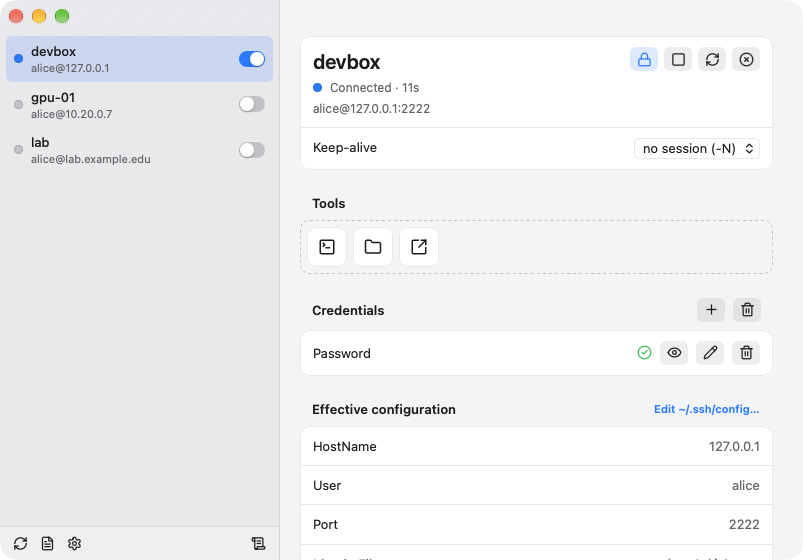
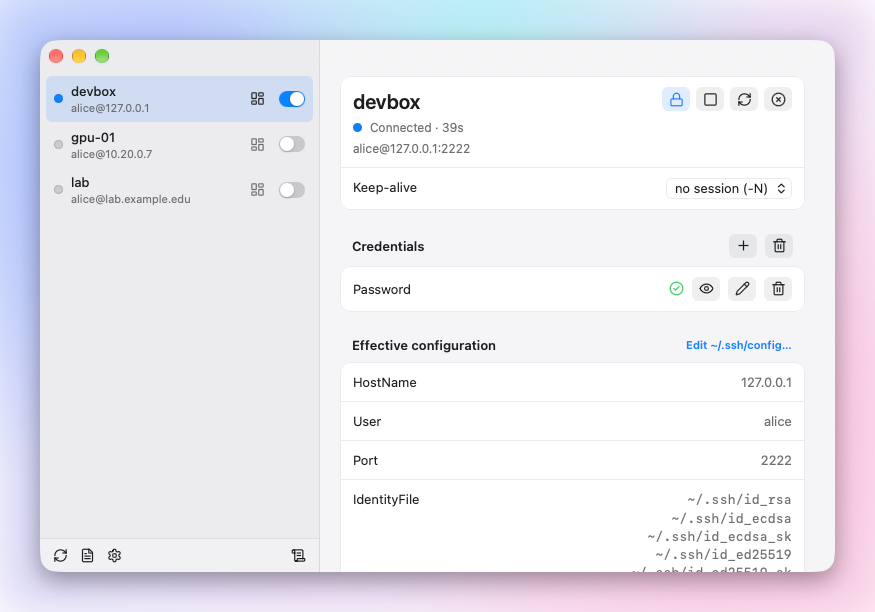
[docs] README: the Console beside the main window, both on a blurred backdrop
The Console window's title is the host's name alone, no "Console — "
prefix. scripts/readme-screenshot.sh takes both pictures (⌘T opens the
selected host's Console; the container is named after the host and the
test copy runs in English) and puts each on a soft blurred backdrop with
a shadow through scripts/readme-frame.swift (CoreImage, nothing to
install), so the pictures stand off the README's white.

diff --git a/scripts/readme-frame.swift b/scripts/readme-frame.swift
@@ -1,0 +1,66 @@
+// Puts a window capture on a soft, blurred backdrop with a shadow under it,
+// the way the README shows its pictures: a window alone on the page's white
+// has no edge. The capture is what `screencapture -o -l` writes (the window
+// without its shadow, transparent rounded corners); the result is a PNG
+// with a border of `pad` points around the window. Used by
+// readme-screenshot.sh: swift scripts/readme-frame.swift IN.png OUT.png
+import AppKit
+import CoreImage
+
+let args = CommandLine.arguments
+guard args.count == 3, let data = FileManager.default.contents(atPath: args[1]),
+    let source = NSBitmapImageRep(data: data), let window = source.cgImage
+else {
+    FileHandle.standardError.write("usage: readme-frame.swift IN.png OUT.png\n".data(using: .utf8)!)
+    exit(2)
+}
+
+// Everything in pixels of the capture, so a 2x capture gets a 2x frame.
+let scale = CGFloat(source.pixelsWide) / source.size.width
+let w = CGFloat(window.width), h = CGFloat(window.height)
+let pad = (40 * scale).rounded()
+let W = w + 2 * pad, H = h + 2 * pad
+
+// The backdrop: a diagonal wash of two tints with three soft blobs over
+// it, then blurred until nothing has an edge.
+func color(_ r: CGFloat, _ g: CGFloat, _ b: CGFloat) -> CIColor { CIColor(red: r, green: g, blue: b) }
+var backdrop = CIFilter(name: "CILinearGradient", parameters: [
+    "inputPoint0": CIVector(x: 0, y: H), "inputColor0": color(0.78, 0.84, 0.98),
+    "inputPoint1": CIVector(x: W, y: 0), "inputColor1": color(0.96, 0.82, 0.90),
+])!.outputImage!.cropped(to: CGRect(x: 0, y: 0, width: W, height: H))
+let blobs: [(CGFloat, CGFloat, CGFloat, CIColor)] = [
+    (0.18, 0.72, 0.55, color(0.62, 0.72, 0.99)),
+    (0.82, 0.30, 0.60, color(0.98, 0.75, 0.86)),
+    (0.55, 0.95, 0.45, color(0.70, 0.93, 0.96)),
+]
+for (x, y, r, c) in blobs {
+    let blob = CIFilter(name: "CIRadialGradient", parameters: [
+        "inputCenter": CIVector(x: x * W, y: y * H),
+        "inputRadius0": 0, "inputRadius1": r * min(W, H),
+        "inputColor0": c, "inputColor1": CIColor(red: c.red, green: c.green, blue: c.blue, alpha: 0),
+    ])!.outputImage!
+    backdrop = blob.composited(over: backdrop)
+}
+backdrop = backdrop.clampedToExtent()
+    .applyingFilter("CIGaussianBlur", parameters: ["inputRadius": pad * 0.6])
+    .cropped(to: CGRect(x: 0, y: 0, width: W, height: H))
+
+// Draw it, then the window with its shadow, through AppKit.
+let out = NSBitmapImageRep(bitmapDataPlanes: nil, pixelsWide: Int(W), pixelsHigh: Int(H),
+    bitsPerSample: 8, samplesPerPixel: 4, hasAlpha: true, isPlanar: false,
+    colorSpaceName: .deviceRGB, bytesPerRow: 0, bitsPerPixel: 0)!
+NSGraphicsContext.saveGraphicsState()
+let ctx = NSGraphicsContext(bitmapImageRep: out)!
+NSGraphicsContext.current = ctx
+let cg = ctx.cgContext
+let ci = CIContext(cgContext: cg, options: nil)
+ci.draw(backdrop, in: CGRect(x: 0, y: 0, width: W, height: H), from: backdrop.extent)
+let frame = CGRect(x: pad, y: pad, width: w, height: h)
+// The shadow follows the window's own shape (its transparent corners).
+cg.setShadow(offset: CGSize(width: 0, height: -8 * scale), blur: 24 * scale,
+    color: CGColor(gray: 0, alpha: 0.35))
+cg.draw(window, in: frame)
+NSGraphicsContext.restoreGraphicsState()
+
+guard let png = out.representation(using: .png, properties: [:]) else { exit(1) }
+try! png.write(to: URL(fileURLWithPath: args[2]))

diff --git a/src-tauri/src/app/windows.rs b/src-tauri/src/app/windows.rs
@@ -183,7 +183,7 @@ pub fn show_console(app: &AppHandle, host: &str) {
         Some(w) => w,
         None => {
             let page = format!("console.html?host={}", urlencode(host));
-            match builder(app, &label, &page, &format!("Console — {host}"))
+            match builder(app, &label, &page, host)
                 .inner_size(1000.0, 640.0)
                 .min_inner_size(760.0, 420.0)
                 .center()

diff --git a/AGENTS.md b/AGENTS.md
@@ -60,7 +60,14 @@ would need an in-process ssh client).
   `css/xterm.css` and `@xterm/addon-fit@VERSION/lib/addon-fit.js`.
 * `scripts/`: `icon-source.png` (the app icon's source), `icons.py`,
   `menubar-template` (a small Rust crate that makes the menu bar picture),
-  `latest-json.sh` (the updater's manifest, used by the release job).
+  `latest-json.sh` (the updater's manifest, used by the release job),
+  `readme-screenshot.sh` (retakes the README's pictures, the main window and
+  a host's Console, from an isolated copy of the app and a throwaway sshd in
+  Docker; needs the desktop session: Accessibility for `osascript`, Screen
+  Recording for `screencapture`, and it signs the copy), `readme-frame.swift`
+  (what it runs on each capture: the window on a blurred backdrop with a
+  shadow, CoreImage through `swift`, so a plain capture gets the README's
+  look).
 * `Tests/`: shell scripts that need Docker, see below. `docs/`: the manual
   and its pictures.
 

diff --git a/README.md b/README.md
@@ -14,6 +14,8 @@ it cannot answer, such as an unknown host key.
 
 <img src="docs/images/main-window.png" width="640" alt="The main window: the host list with a switch and a lock per host, and the selected host's page with its status, tools, stored credentials and effective ssh configuration">
 
+<img src="docs/images/console-window.png" width="640" alt="A host's Console window: the Status tab with the host's load, CPU, memory, disks and busiest processes next to a shell on the host in a tab of its own">
+
 ## Why
 
 Servers behind a jump host, a VPN that drops every few hours, a login that
